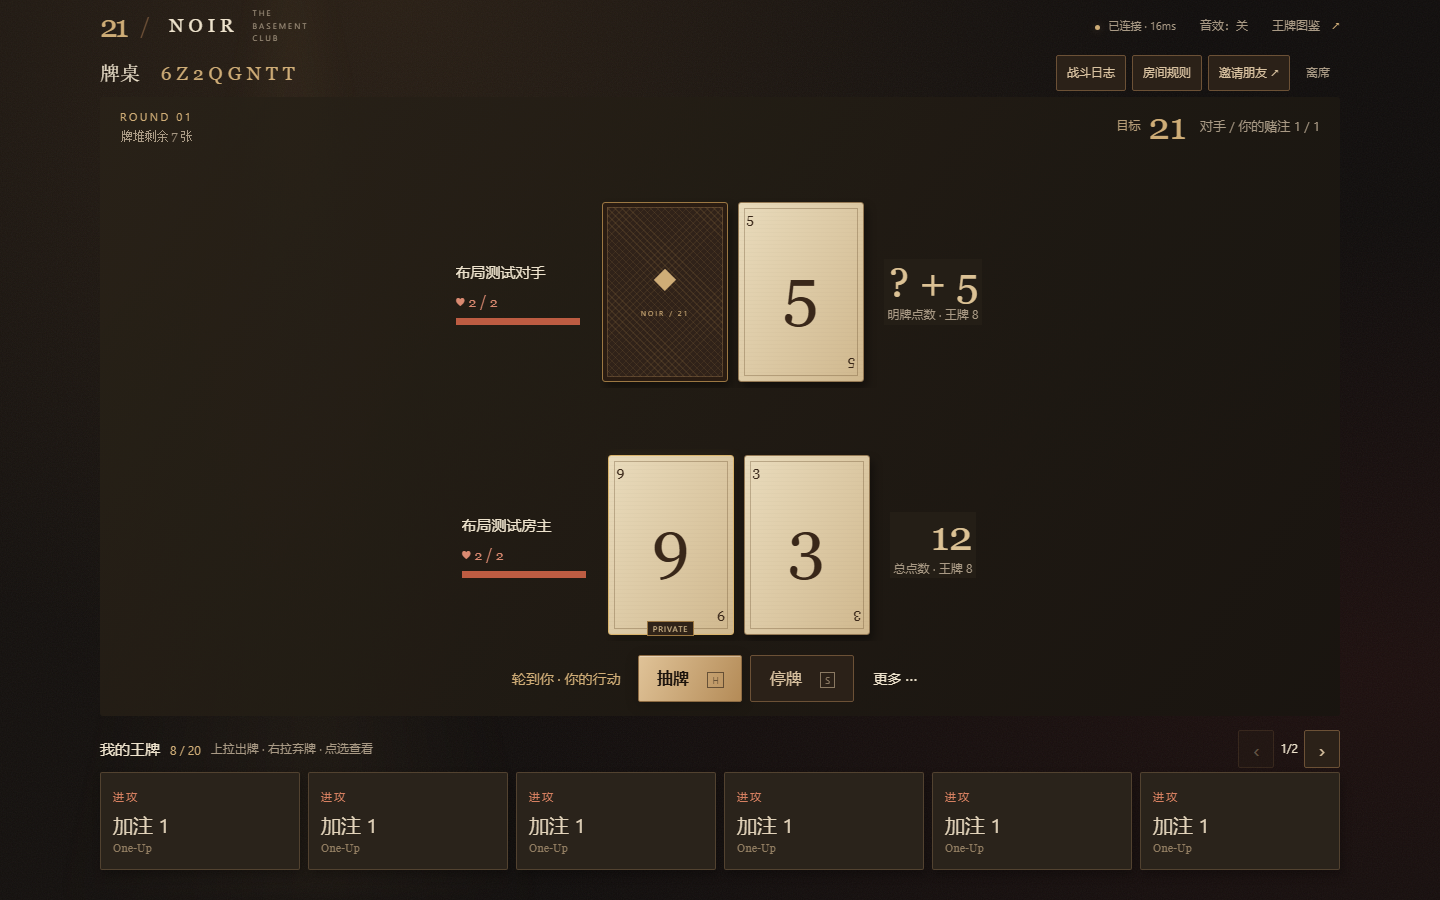
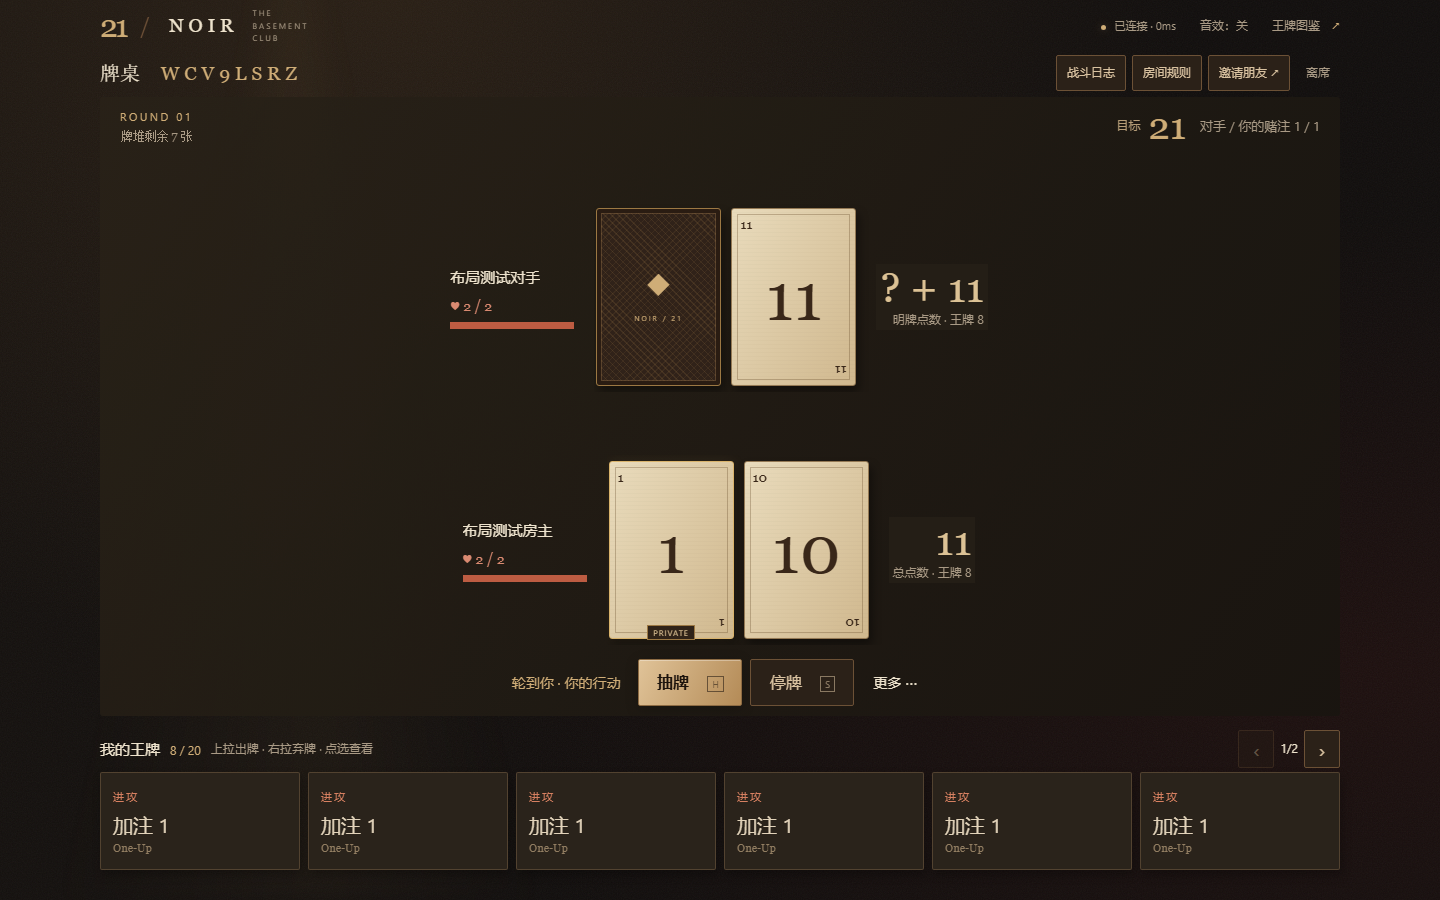
fix(web): keep actions inside short table clipping bounds

diff --git a/web/static/game.css b/web/static/game.css
@@ -1,5 +1,5 @@
 /* Cards, decisions and controls share one field of view. */
-body.playing { height:100dvh; overflow:hidden; --number-height:clamp(48px,calc((100dvh - 310px)/2.6),180px) }
+body.playing { height:100dvh; overflow:hidden; --number-height:clamp(48px,calc((100dvh - 400px)/2.8),180px) }
 body.playing .app-shell { width:calc(100% - 32px); max-width:1240px; height:100%; display:flex; flex-direction:column }
 body.playing .masthead { height:52px; min-height:52px; border:0 }
 body.playing .wordmark { font-size:19px }
@@ -31,7 +31,7 @@ body.playing .target-seal strong { font-size:38px; line-height:1 }
 body.playing .target-note { font-size:13px; color:var(--muted) }
 body.playing .player { min-height:0; padding:6px 0; display:flex; align-items:center; justify-content:center; gap:20px }
 body.playing #opponent { flex:1 }
-body.playing .mine-zone { flex:1; min-height:0; display:flex; flex-direction:column; justify-content:center; gap:8px }
+body.playing .mine-zone { flex:none; min-height:0; display:flex; flex-direction:column; justify-content:center; gap:8px }
 body.playing #my-player { flex:none }
 body.playing .player-heading { width:124px; flex:none; margin:0; display:block; min-width:0 }
 body.playing .player-heading>div { display:flex; flex-wrap:wrap; gap:7px; margin:7px 0 }
@@ -177,7 +177,14 @@ body.playing .drag-ghost { width:120px; height:98px; min-height:98px; pointer-ev
   body.playing .table-top { flex-direction:row }
   body.playing .target-seal strong { font-size:26px }
   body.playing .player-heading { width:100px }
-  body.playing .number-cards { max-width:calc(100% - 120px); padding:2px }
+  body.playing .player { padding:2px 0 }
+  body.playing .player-heading>div { margin:2px 0; gap:2px; line-height:1.2 }
+  body.playing .player-name { font-size:13px }
+  body.playing .health { font-size:12px }
+  body.playing .vitality { height:5px }
+  body.playing .clock:empty { display:none }
+  body.playing .mine-zone { flex:none; gap:4px }
+  body.playing .number-cards { max-width:calc(100% - 120px); padding:0 2px }
   body.playing .card-rank { font-size:8px; top:3px; left:4px }
   body.playing .card-rank.bottom { bottom:3px; right:4px }
   body.playing .card-private { font-size:5px }

diff --git a/tests/web_ui_e2e.py b/tests/web_ui_e2e.py
@@ -143,7 +143,7 @@ def check_usability(url, short_auth=True):
                 a.wait_for_timeout(80)
                 a.locator('.trump-card').first.click()
                 geometry = a.evaluate("""() => {
-                  const ids = ['opponent', 'my-player', 'trump-hand', 'hit', 'stay', 'use-trump', 'discard-trump'];
+                  const ids = ['play-drop', 'opponent', 'my-player', 'trump-hand', 'hit', 'stay', 'use-trump', 'discard-trump'];
                   return {width: innerWidth, height: innerHeight,
                     documentWidth: document.documentElement.scrollWidth,
                     documentHeight: document.documentElement.scrollHeight,
@@ -157,6 +157,10 @@ def check_usability(url, short_auth=True):
                 for name, bounds in geometry['bounds'].items():
                     assert bounds['width'] > 0 and bounds['height'] > 0, (name, geometry)
                     assert bounds['x'] >= 0 and bounds['y'] >= 0 and bounds['right'] <= width + 1 and bounds['bottom'] <= height + 1, (name, geometry)
+                table = geometry['bounds']['play-drop']
+                for name in ['hit', 'stay', 'opponent', 'my-player']:
+                    bounds = geometry['bounds'][name]
+                    assert bounds['y'] >= table['y'] and bounds['bottom'] <= table['bottom'], ('table clips', name, geometry)
                 quality = a.evaluate("""() => {
                   const card=document.querySelector('#my-player .number-card'), hit=document.getElementById('hit');
                   return {numberHeight:card.getBoundingClientRect().height,
@@ -213,6 +217,21 @@ def check_usability(url, short_auth=True):
             assert_count(a, before - 4)
             report['gestures'].append('touch: right64px discards; no accidental hand scrolling')
             assert a.evaluate('scrollY') == 0
+
+            # Active field cards also consume space: controls must remain
+            # inside the table's clipping bounds, not just inside the viewport.
+            for width, height in [(320, 568), (390, 844), (844, 390), (1366, 768)]:
+                a.set_viewport_size({'width': width, 'height': height})
+                a.wait_for_timeout(80)
+                visible = a.evaluate("""() => {
+                  const table=document.getElementById('play-drop').getBoundingClientRect();
+                  return ['hit','stay'].map(id=>{
+                    const r=document.getElementById(id).getBoundingClientRect();
+                    return {id,top:r.top,bottom:r.bottom,tableTop:table.top,tableBottom:table.bottom};
+                  });
+                }""")
+                assert all(v['top'] >= v['tableTop'] and v['bottom'] <= v['tableBottom'] for v in visible), visible
+            a.set_viewport_size({'width': 390, 'height': 844})
 
             a.locator('.trump-card').first.click()
             expect(a.locator('#discard-trump')).to_be_enabled()
